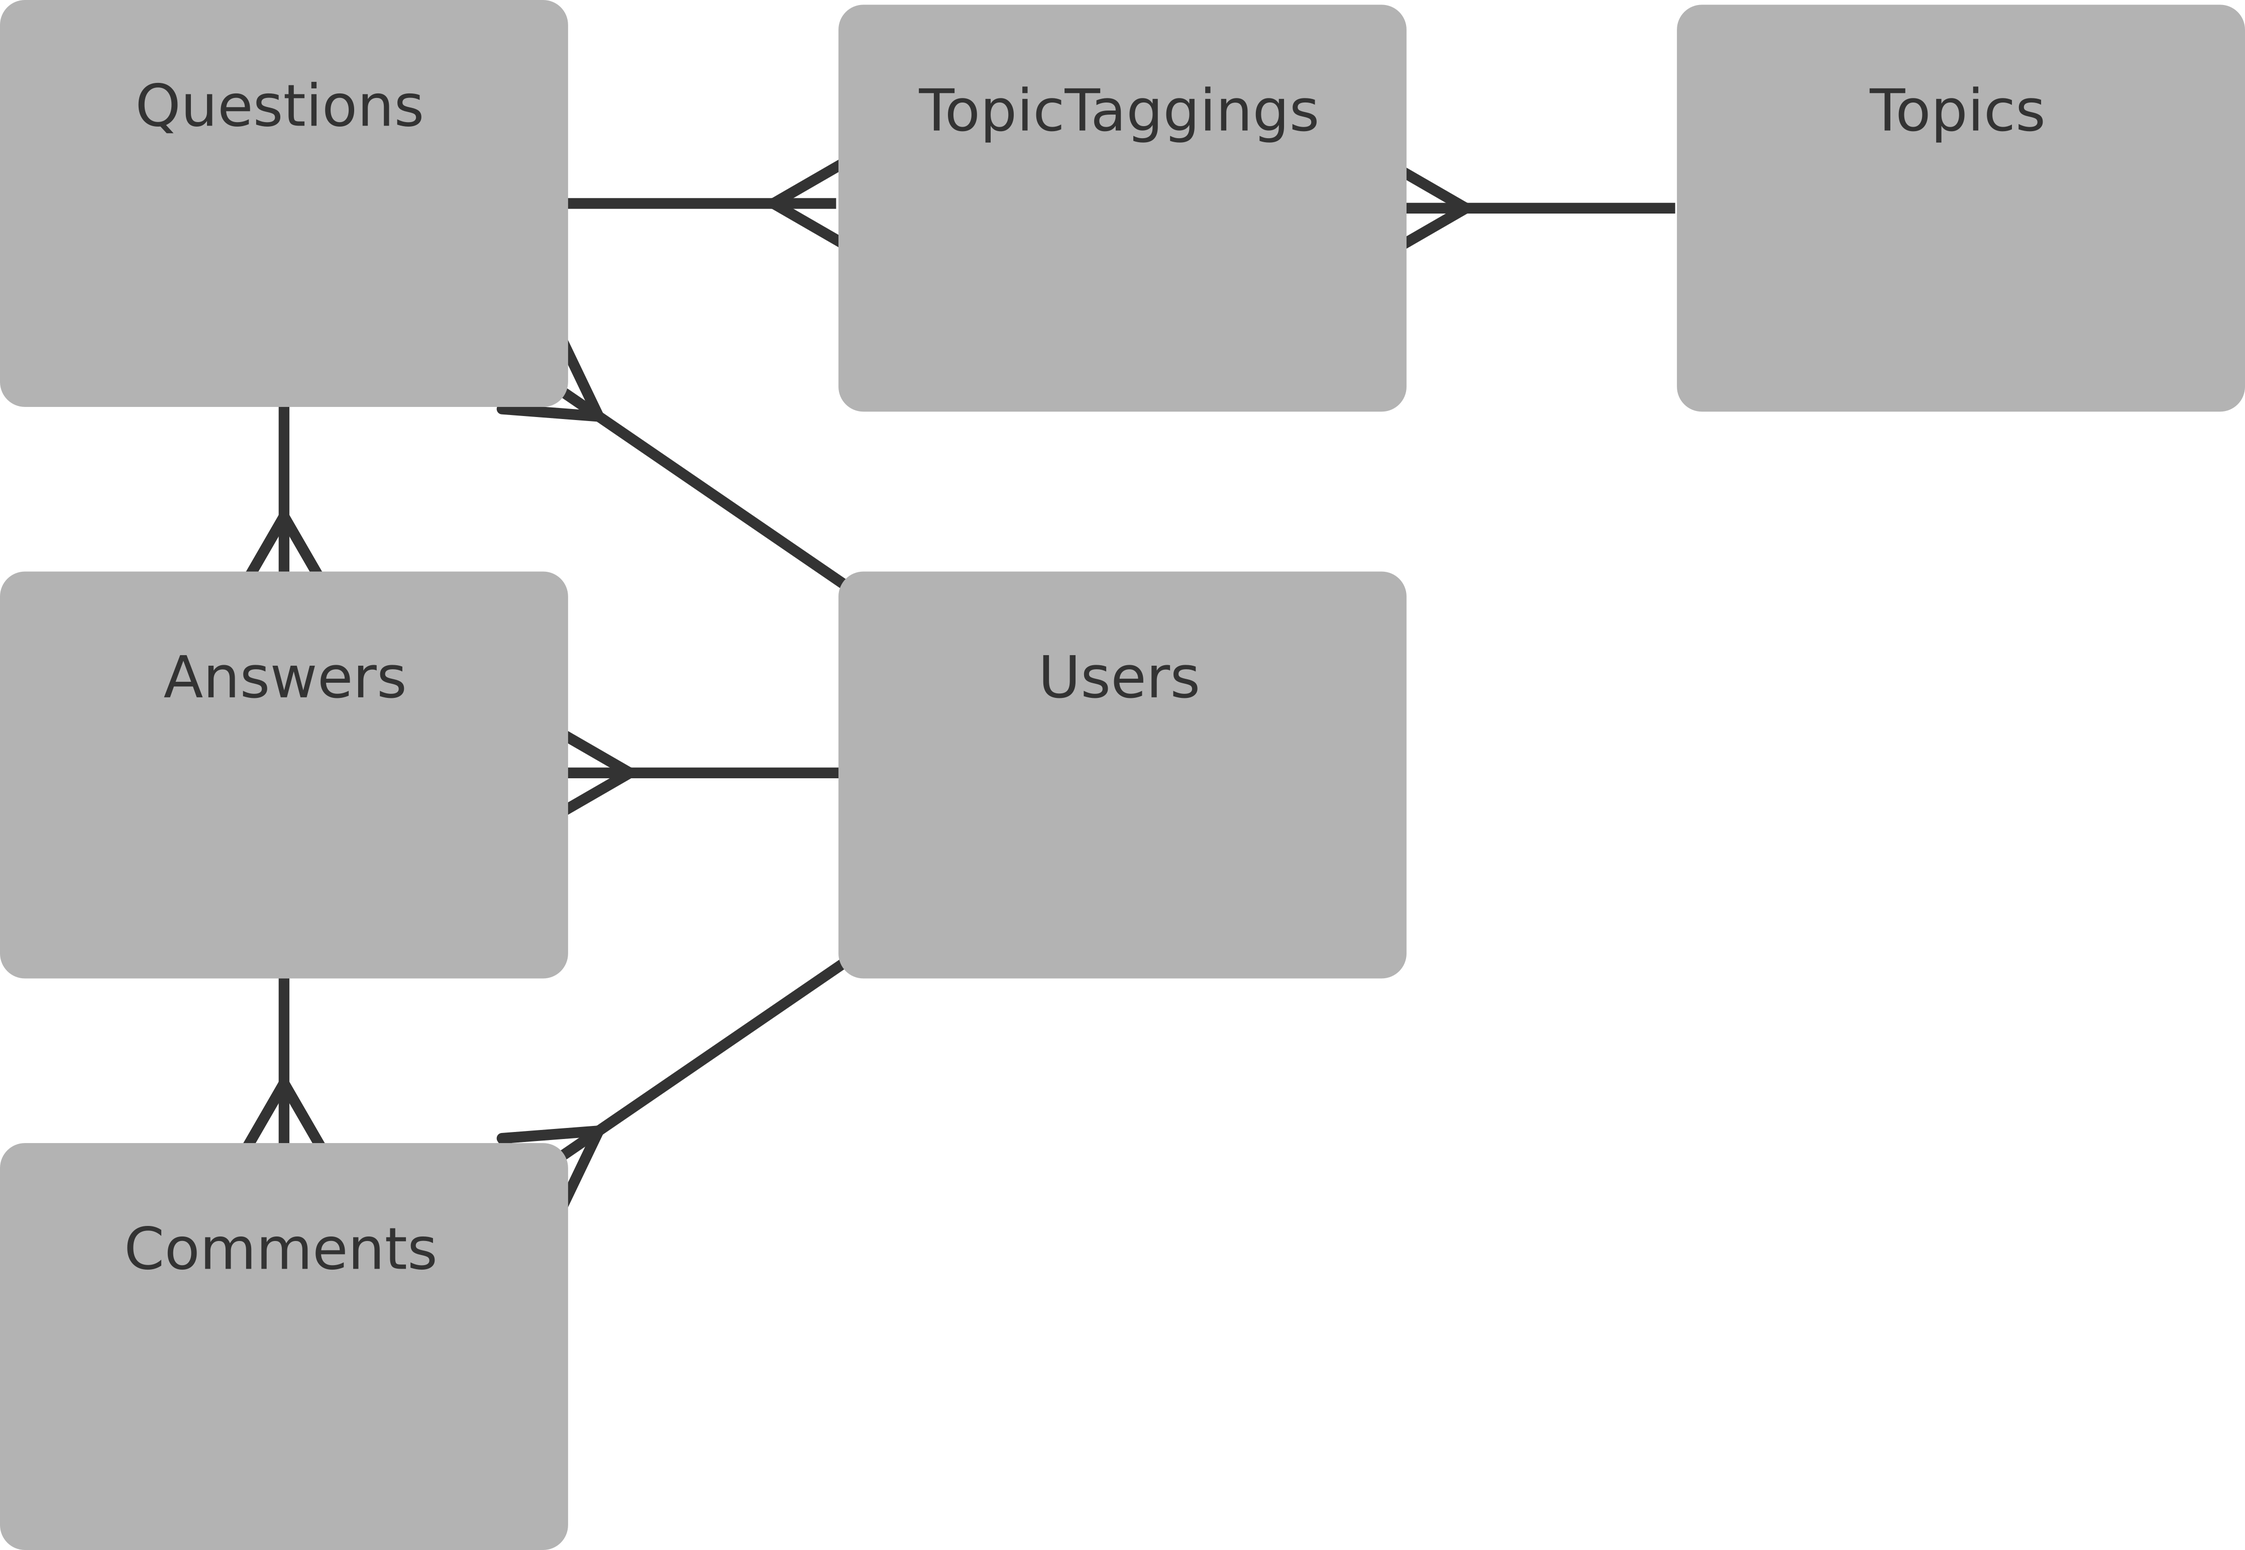
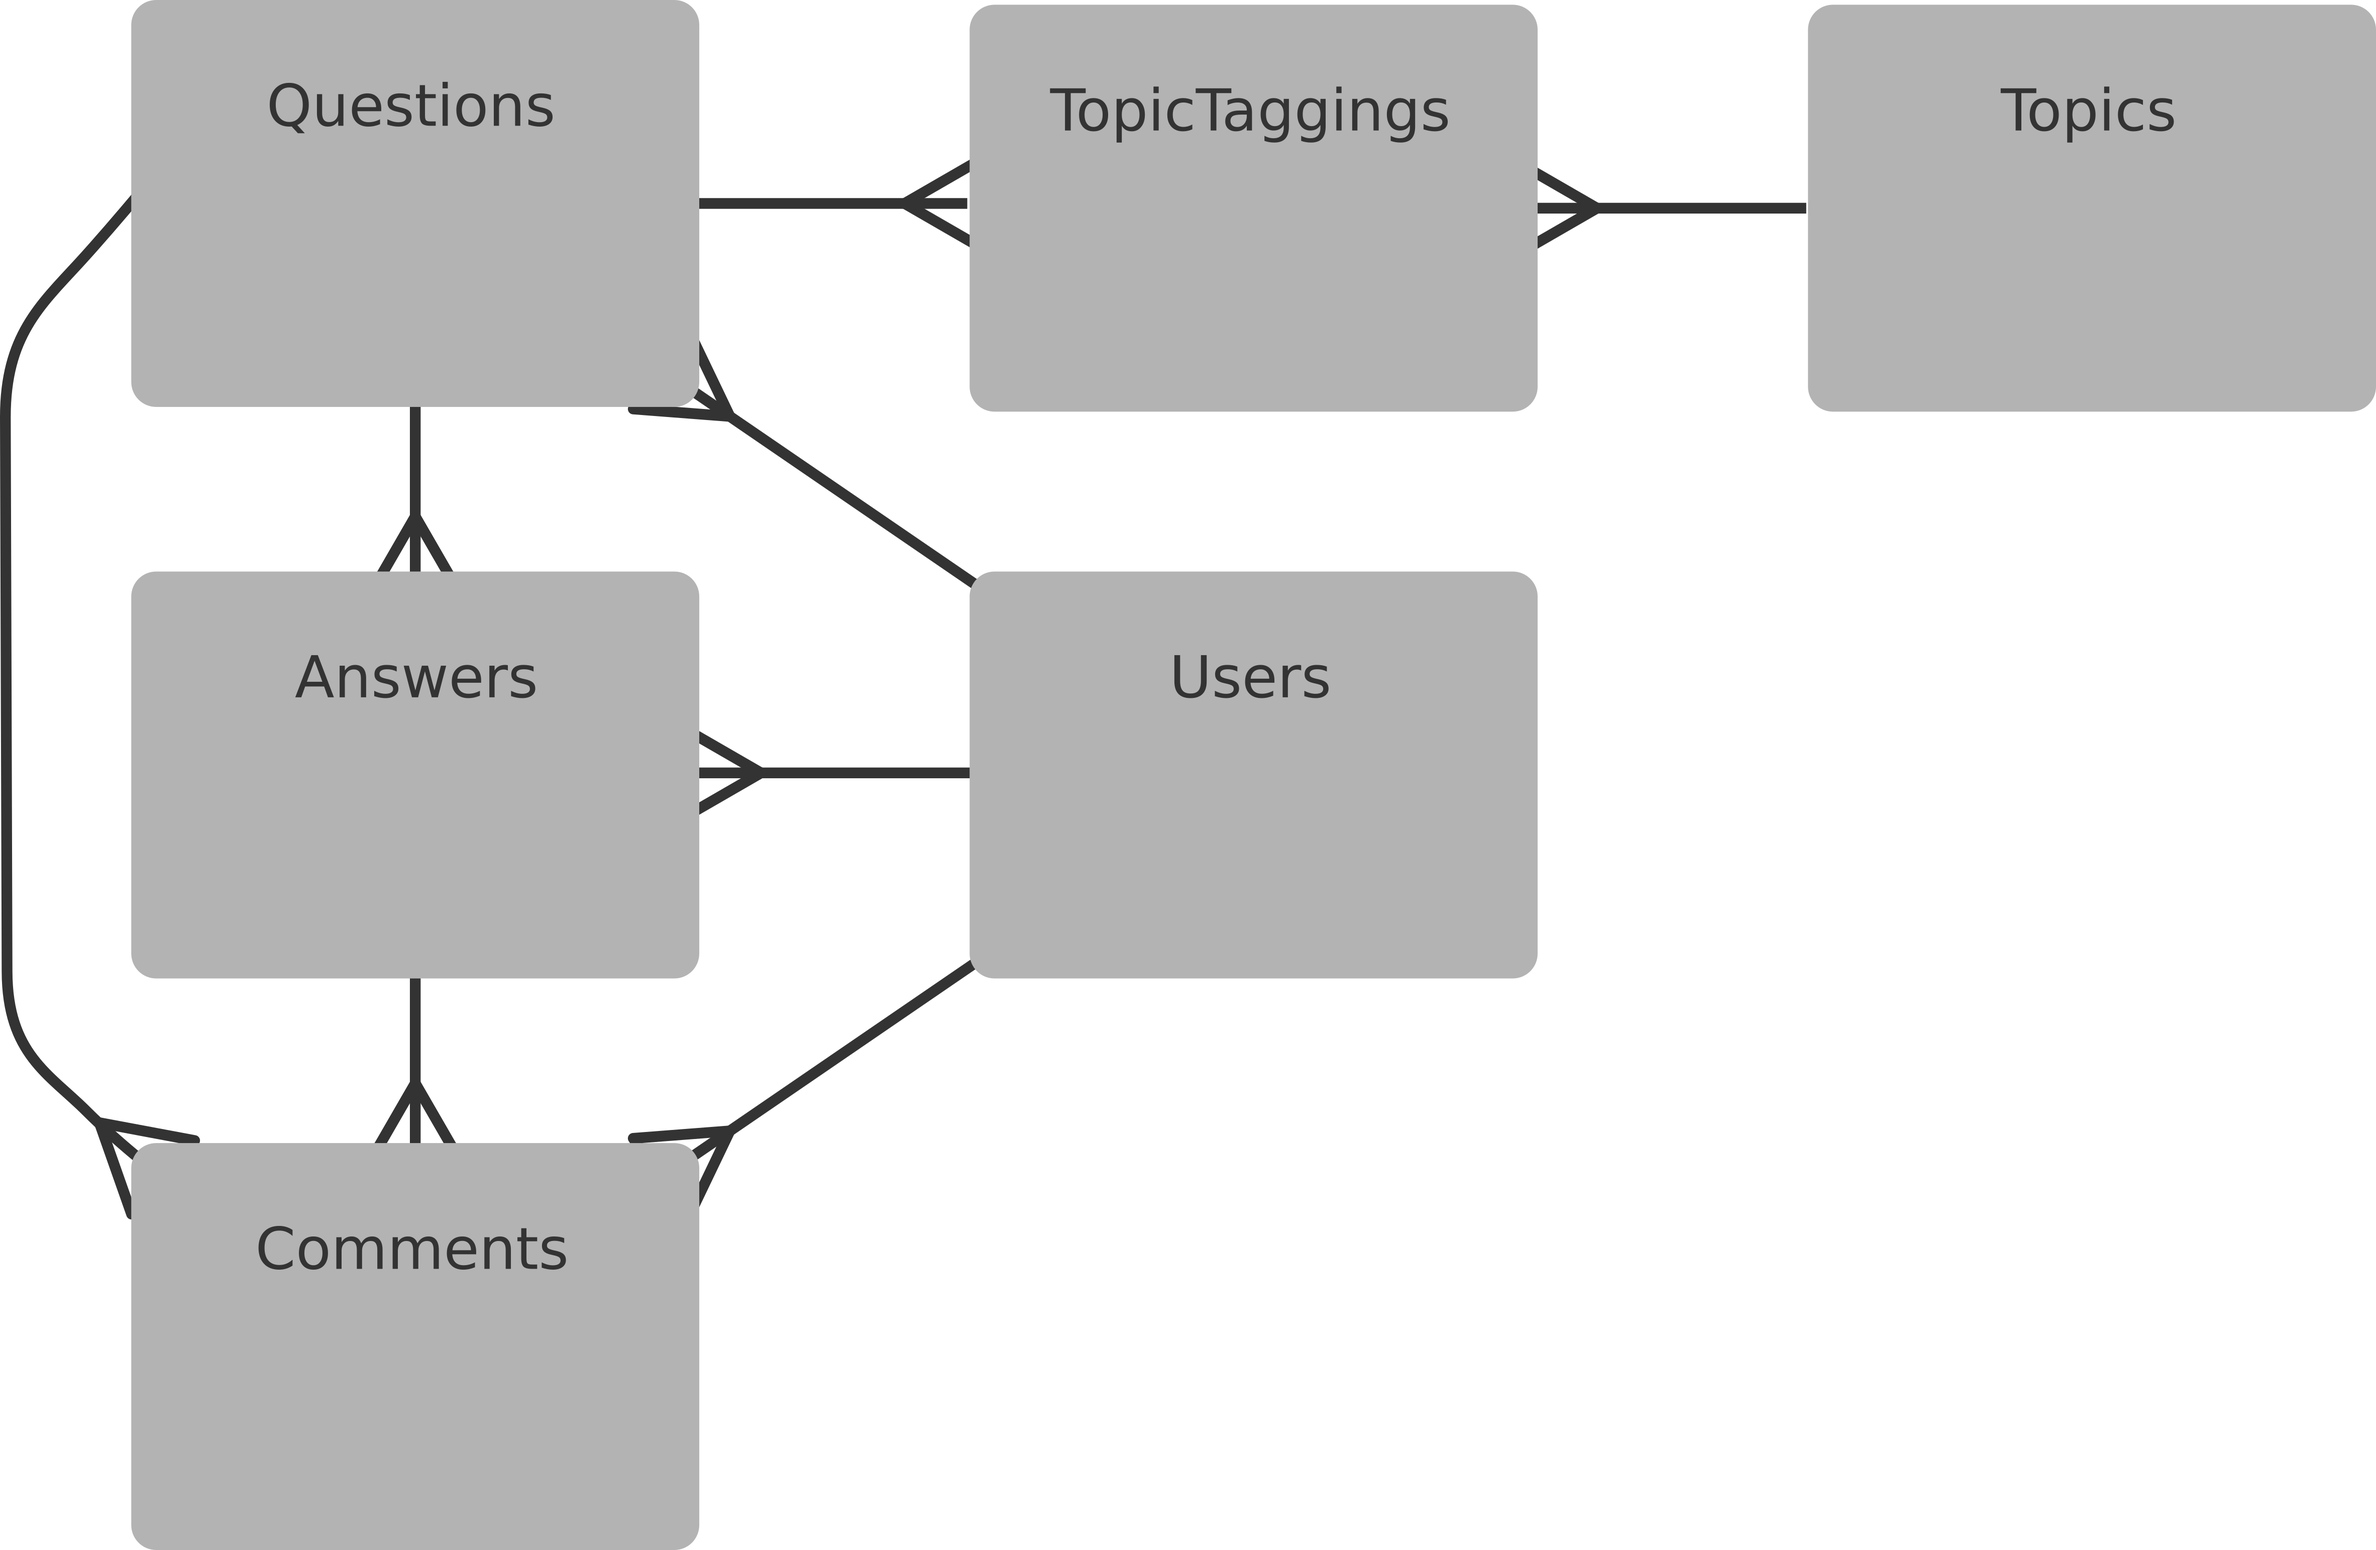
cross referenced component heirarchy, routes, flu cycles, and api-endpoints for consistency and minimum necessary complexity

diff --git a/docs/flux-cycles.md b/docs/flux-cycles.md
@@ -19,7 +19,7 @@ flux cycle for question get requests:
 ### Questions API Request Actions
 
 * `fetchAllQuestions`
-  0. invoked from `QuestionsIndex` `didMount`/`willReceiveProps`
+  0. invoked from `QuestionsIndex` `didMount` / `willReceiveProps`
   0. `GET /api/questions` is called.
   0. `receiveAllQuestions` is set as the callback.
 
@@ -35,7 +35,7 @@ flux cycle for question get requests:
 
 * `updateQuestion`
   0. invoked from `QuestionDetail` `onSubmit`
-  0. `POST /api/questions/:questionId` is called.
+  0. `PATCH /api/questions/:questionId` is called.
   0. `receiveQuestion` is set as the callback.
 
 * `destroyQuestion`
@@ -68,35 +68,58 @@ flux cycle for question get requests:
 ### Answer API Request Actions
 
 * `createAnswer`
-  0. invoked from new answer button `onClick`
+  0. invoked from `onSubmit` in `NewAnswerForm`
   0. `POST /api/questions/:questionId/answers` is called.
   0. `receiveQuestion` is set as the callback.
 
 * `updateAnswer`
-  0. invoked from `AnswerDetail` `onSubmit`
-  0. `POST /api/questions/:questionId/answers/:answerId` is called.
+  0. invoked from `onSubmit` in `EditAnswerForm`
+  0. `PATCH /api/questions/:questionId/answers/:answerId` is called.
   0. `receiveQuestion` is set as the callback.
 
 * `destroyAnswer`
-  0. invoked from delete answer button `onClick`
+  0. invoked from delete answer button `onClick` in `QuestionDetail` or `AnswerForm`
   0. `DELETE /api/questions/:questionId/answers/:answerId` is called.
   0. `receiveQuestion` is set as the callback.
 
 ### Answer API Response Actions
 
-* see Question API Response Actions above
+* will call `receiveQuestion` for all, answer data will come with question
 
 ### Store Listeners
 
-* see Question Store Listeners above
+* `QuestionDetail` component listens to `Question` store.
+
+
+## Comment Cycles
+
+### Comment API Request Actions
+
+* `createComment`
+  0. invoked from comment button `onClick`
+  0. `POST /api/questions/:questionId/answers/:answerId/comments` is called.
+  0. `receiveQuestion` is set as the callback.
+
+* `destroyComment`
+  0. invoked from delete answer button `onClick`
+  0. `DELETE /api/questions/:questionId/answers/:answerId/comments/:commentId` is called.
+  0. `receiveQuestion` is set as the callback.
+
+### Answer API Response Actions
+
+* will call `receiveQuestion` for all, answer data will come with question
+
+### Store Listeners
+
+* `QuestionDetail` component listens to `Question` store.
 
 
 ## Topic Cycles
 
 ### Topic API Request Actions
 
-* `getTopics`
-  0. invoked from `QuestionsIndex` `didMount`/`willReceiveProps`
+* `fetchAllTopics`
+  0. invoked from `QuestionsIndex` `didMount` / `willReceiveProps`
   0. `GET /api/topics` is called.
   0. `receiveAllTopics` is set as the callback.
 
@@ -109,29 +132,6 @@ flux cycle for question get requests:
 ### Store Listeners
 
 * `QuestionsIndex` component listens to `Topic` store.
-
-
-## Comment Cycles
-
-### Comment API Request Actions
-
-* `createComment`
-  0. invoked from new comment button `onClick`
-  0. `POST /api/questions/:questionId/answers/:answerId/comments` is called.
-  0. `receiveQuestion` is set as the callback.
-
-* `destroyComment`
-  0. invoked from delete answer button `onClick`
-  0. `DELETE /api/questions/:questionId/answers/:answerId/comments/:commentId` is called.
-  0. `receiveQuestion` is set as the callback.
-
-### Answer API Response Actions
-
-* see Question API Response Actions above
-
-### Store Listeners
-
-* see Question Store Listeners above
 
 
 ## SearchSuggestion Cycles

diff --git a/docs/api-endpoints.md b/docs/api-endpoints.md
@@ -28,31 +28,32 @@
   - accepts `text` list questions that include text
   - accepts pagination params (if I get there)
 - `POST /api/questions`
-- `GET /api/questions/:id`
-- `PATCH /api/questions/:id`
-- `DELETE /api/questions/:id`
+- `GET /api/questions/:questionId`
+- `PATCH /api/questions/:questionId`
+- `DELETE /api/questions/:questionId`
 
 ### Answers
 
-- `GET /api/questions/questionId/answers`
+- A Question's Answers will be included in the question detail component
+  - from `GET /api/questions/:questionId`
 - `POST /api/questions/questionId/answers`
-- `PATCH /api/questions/questionId/answers/:id`
-- `DELETE /api/questions/questionId/answers/:id`
+- `PATCH /api/questions/questionId/answers/:answerId`
+- `DELETE /api/questions/questionId/answers/:answerId`
 
 ### Comments
 
-- `GET /api/questions/questionId/answers`
+- A Question's Topics will be included in the question detail component
+  - from `GET /api/questions/:questionId/answers`
+- An Answers's Comments will be included in the question detail component
+  - from `GET /api/questions/:questionId`
 - `POST /api/questions/questionId/answers`
-- `PATCH /api/questions/questionId/answers/:id`
-- `DELETE /api/questions/questionId/answers/:id`
+- `DELETE /api/questions/questionId/answers/:answerId`
 
 ### Topics
 
-- A question's topics will be included in the question detail component
-  - from `GET /api/questions/:id`
+- A Question's Topics will be included in the question detail component
+  - from `GET /api/questions/:questionId`
 - `GET /api/topics`
   - includes query param for typeahead suggestions
-- `POST /api/questions/:question_id/topic`: add tag to question by name
-  - if topic doesn't already exist, it will be created
-- `DELETE /api/questions/:question_id/tags/:topic`: remove topic from question by
-  name
+- When a question is edited, the server will handle topic creation or association
+  - from `POST /api/questions` and `PATCH /api/questions/:questionId`

diff --git a/docs/schema.md b/docs/schema.md
@@ -20,12 +20,13 @@ author_id   | integer   | not null, foreign key (references users), indexed
 question_id | integer   | not null, foreign key (references notebooks), indexed
 
 ## comments
-column name | data type | details
-------------|-----------|-----------------------
-id          | integer   | not null, primary key
-author_id   | integer   | not null, foreign key (references users), indexed
-question_id | integer   | not null: foreign key (references questions), indexed
-content     | string    | not null
+column name      | data type | details
+-----------------|-----------|-----------------------
+id               | integer   | not null, primary key
+author_id        | integer   | not null, foreign key (references users), indexed
+commentable_id   | integer   | not null: foreign key (references questions), indexed
+commentable_type | string    | not null: foreign key (references questions), indexed
+content          | string    | not null
 
 ## topics
 column name | data type | details

diff --git a/docs/components.md b/docs/components.md
@@ -6,19 +6,17 @@
   * **QuestionsIndex**
     * QuestionIndexItem
   * **QuestionDetail**
-    * AnswerForm
+    * NewAnswerForm
+    * EditAnswerForm
     * AnswerIndex
       * CommentList
         * CommentForm
 
-  * **NewUser**
-  * **NewSession**
+  * NewUser (modal)
+  * NewSession (modal)
 
 ## Routes
 
 * **component:** `App` **path:** `/`
   * **component:** `QuestionsIndex` **path:** `questions`
   * **component:** `QuestionDetail` **path:** `questions/:questionId`
-
-  * **component:** `NewUser` **path:** `/sign_in`
-  * **component:** `NewSession` **path:** `/sign_up`
